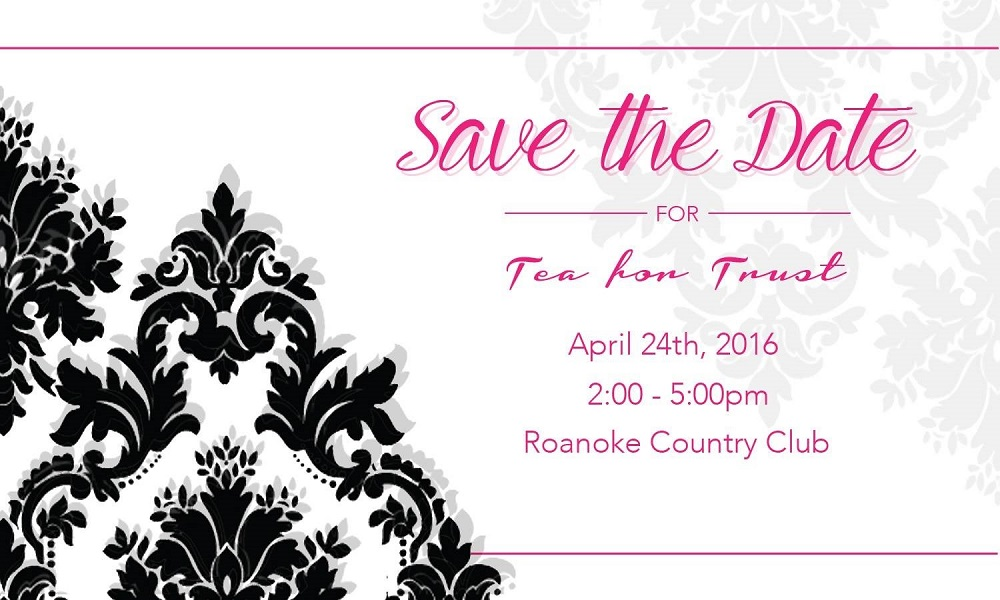
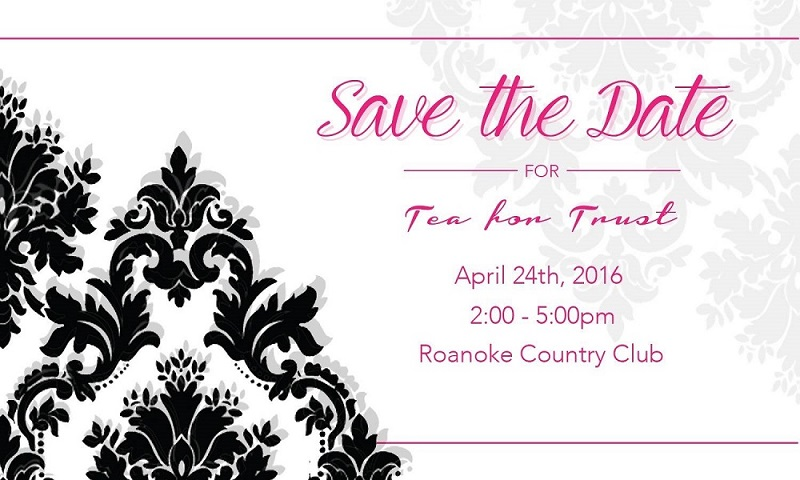
resized tea for trust thumbnail

diff --git a/teafortrust.html b/teafortrust.html
@@ -79,7 +79,7 @@
                 <!-- PORTFOLIO ITEM -->
                 <div>
                     <div>
-                        <img src="assets/img/events/TeaForTrust.jpg" class="img-responsive" alt="Tea For Trust">
+                        <img src="assets/img/events/TeaForTrust.jpg" class="img-responsive center-block"  alt="Tea For Trust">
                     </div>
                 </div>
                 <div class=" row ">
